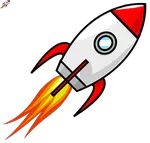
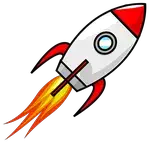
Add images to duels home page stones

diff --git a/index.html b/index.html
@@ -87,7 +87,9 @@
                 <div id="duelsGameModes">
                     <div class="game-mode-button duels-game-button" data-game-mode="OneStoneDuel">
                         <div>
-                            <div class="stone-wrapper stone-white"></div>
+                            <div class="stone-wrapper stone-white">
+                                <img class="stone-image" src="/imgs/stones/Rocket.webp" alt="Stone">
+                            </div>
                             <h3>1 Stone</h3>
                         </div>
                         <div class="elo-container">
@@ -100,8 +102,12 @@
                     </div>
                     <div class="game-mode-button duels-game-button" data-game-mode="TwoStoneDuel">
                         <div>
-                            <div class="stone-wrapper stone-white"></div>
-                            <div class="stone-wrapper stone-white"></div>
+                            <div class="stone-wrapper stone-white">
+                                <img class="stone-image" src="/imgs/stones/Wizards Hat.webp" alt="Stone">
+                            </div>
+                            <div class="stone-wrapper stone-white">
+                                <img class="stone-image" src="/imgs/stones/Rubber Ducky.webp" alt="Stone">
+                            </div>
                             <h3>2 Stone</h3>
                         </div>
                         <div class="elo-container">
@@ -114,9 +120,15 @@
                     </div>
                     <div class="game-mode-button duels-game-button" data-game-mode="ThreeStoneDuel">
                         <div>
-                            <div class="stone-wrapper stone-white"></div>
-                            <div class="stone-wrapper stone-white"></div>
-                            <div class="stone-wrapper stone-white"></div>
+                            <div class="stone-wrapper stone-white">
+                                <img class="stone-image" src="/imgs/stones/Gods Eye.webp" alt="Stone">
+                            </div>
+                            <div class="stone-wrapper stone-white">
+                                <img class="stone-image" src="/imgs/stones/Maple Leaf.webp" alt="Stone">
+                            </div>
+                            <div class="stone-wrapper stone-white">
+                                <img class="stone-image" src="/imgs/stones/Pocket Watch.webp" alt="Stone">
+                            </div>
                             <h3>3 Stone</h3>
                         </div>
                         <div class="elo-container">

diff --git a/css/home.css b/css/home.css
@@ -250,6 +250,7 @@
 /* ------------------------- */
 /* Duels                     */
 /* ------------------------- */
+
 #duelsGameModes {
     display: flex;
     flex-direction: column;
@@ -275,6 +276,11 @@
         width: 40px;
         height: 40px;
     }
+
+        #duelsGameModes .stone-wrapper img {
+            width: 20px;
+            height: 20px;
+        }
 
 
 /* ------------------------- */
